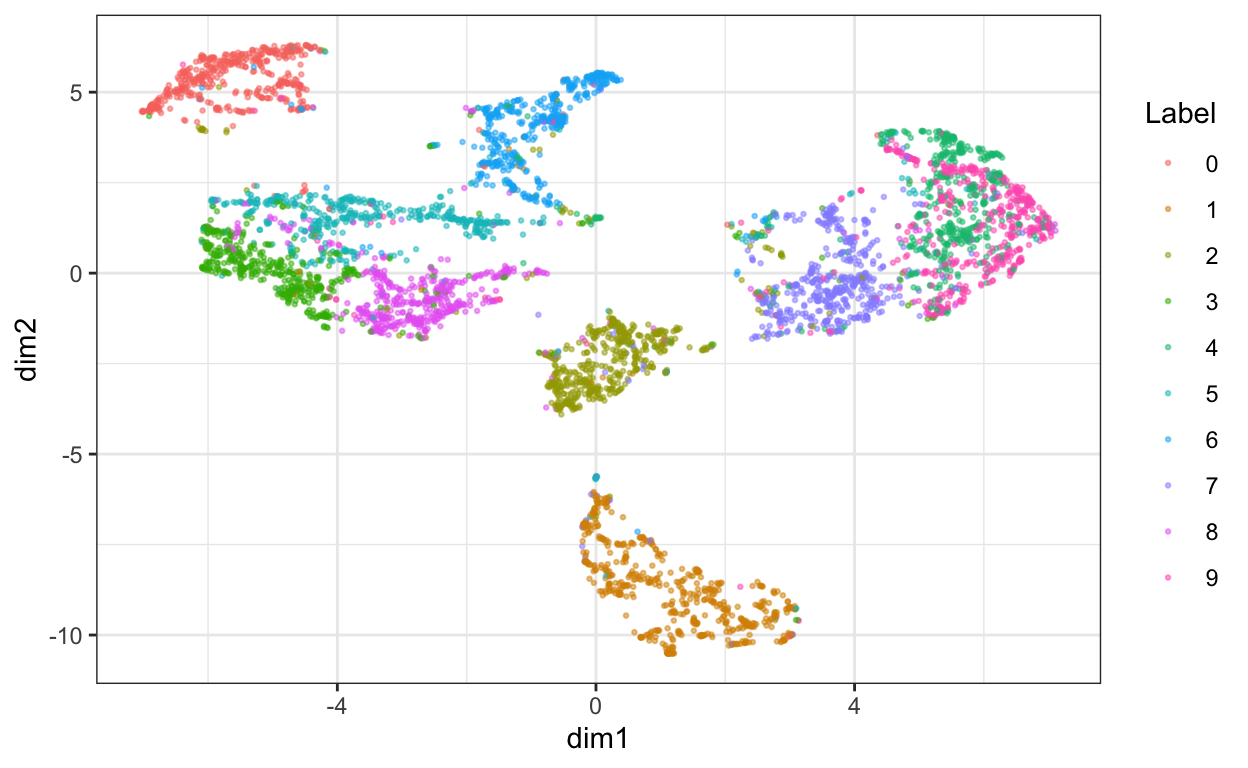
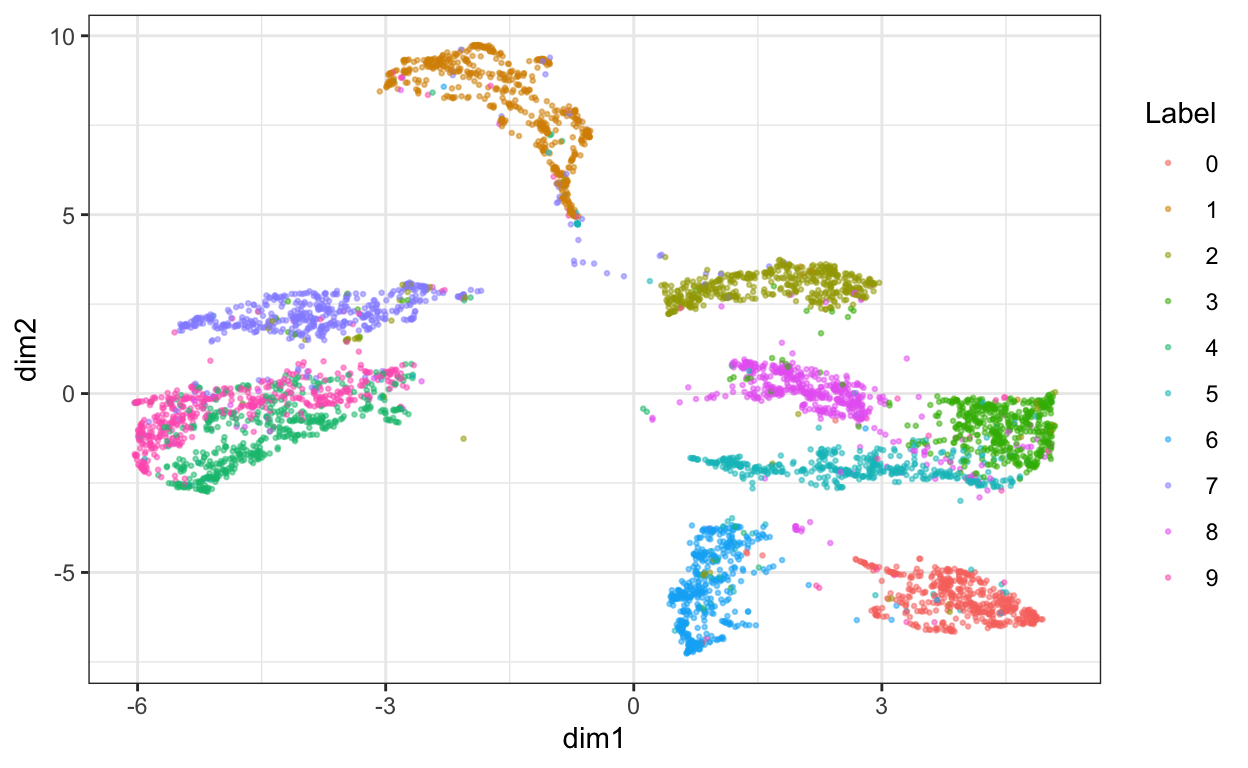
Updating post

diff --git a/_posts/2024-12-23-biologists-stop-including-umap-plots-in-your-papers/biologists-stop-including-umap-plots-in-your-papers.html b/_posts/2024-12-23-biologists-stop-including-umap-plots-in-your-papers/biologists-stop-including-umap-plots-in-your-papers.html
@@ -118,7 +118,7 @@ code span.wa { color: #5e5e5e; font-style: italic; } /* Warning */
   <!--/radix_placeholder_rmarkdown_metadata-->
   
   <script type="text/json" id="radix-resource-manifest">
-  {"type":"character","attributes":{},"value":["biologists-stop-including-umap-plots-in-your-papers_files/figure-html5/genotype-pca-1.png","biologists-stop-including-umap-plots-in-your-papers_files/figure-html5/genotype-pca-2-1.png","biologists-stop-including-umap-plots-in-your-papers_files/figure-html5/genotype-umap-1.png","biologists-stop-including-umap-plots-in-your-papers_files/figure-html5/iris-example-1.png","biologists-stop-including-umap-plots-in-your-papers_files/figure-html5/mnist-example-1.png","biologists-stop-including-umap-plots-in-your-papers_files/figure-html5/mvnorm-example-1.png","biologists-stop-including-umap-plots-in-your-papers_files/figure-html5/pc1-boxplot-1.png"]}
+  {"type":"character","attributes":{},"value":["biologists-stop-including-umap-plots-in-your-papers_files/anchor-4.2.2/anchor.min.js","biologists-stop-including-umap-plots-in-your-papers_files/bowser-1.9.3/bowser.min.js","biologists-stop-including-umap-plots-in-your-papers_files/distill-2.2.21/template.v2.js","biologists-stop-including-umap-plots-in-your-papers_files/figure-html5/genotype-pca-1.png","biologists-stop-including-umap-plots-in-your-papers_files/figure-html5/genotype-pca-2-1.png","biologists-stop-including-umap-plots-in-your-papers_files/figure-html5/genotype-umap-1.png","biologists-stop-including-umap-plots-in-your-papers_files/figure-html5/iris-example-1.png","biologists-stop-including-umap-plots-in-your-papers_files/figure-html5/mnist-example-1.png","biologists-stop-including-umap-plots-in-your-papers_files/figure-html5/mvnorm-example-1.png","biologists-stop-including-umap-plots-in-your-papers_files/figure-html5/mvnorm-example-2-1.png","biologists-stop-including-umap-plots-in-your-papers_files/figure-html5/pc1-boxplot-1.png","biologists-stop-including-umap-plots-in-your-papers_files/header-attrs-2.28/header-attrs.js","biologists-stop-including-umap-plots-in-your-papers_files/jquery-3.6.0/jquery-3.6.0.js","biologists-stop-including-umap-plots-in-your-papers_files/jquery-3.6.0/jquery-3.6.0.min.js","biologists-stop-including-umap-plots-in-your-papers_files/jquery-3.6.0/jquery-3.6.0.min.map","biologists-stop-including-umap-plots-in-your-papers_files/popper-2.6.0/popper.min.js","biologists-stop-including-umap-plots-in-your-papers_files/tippy-6.2.7/tippy-bundle.umd.min.js","biologists-stop-including-umap-plots-in-your-papers_files/tippy-6.2.7/tippy-light-border.css","biologists-stop-including-umap-plots-in-your-papers_files/tippy-6.2.7/tippy.css","biologists-stop-including-umap-plots-in-your-papers_files/tippy-6.2.7/tippy.umd.min.js","biologists-stop-including-umap-plots-in-your-papers_files/webcomponents-2.0.0/webcomponents.js"]}
   </script>
   <!--radix_placeholder_navigation_in_header-->
   <!--/radix_placeholder_navigation_in_header-->
@@ -1545,6 +1545,7 @@ code span.wa { color: #5e5e5e; font-style: italic; } /* Warning */
 </div>
 
 <div class="d-article">
+<p><strong>Update on February 13, 2025</strong>: We have updated the post after re-running the code with latest versions of all packages and by making sure that <code>umap</code> is aware that the input is a distance. We also changed the seed to today’s day.</p>
 <div class="layout-chunk" data-layout="l-body">
 
 </div>
@@ -1554,7 +1555,7 @@ code span.wa { color: #5e5e5e; font-style: italic; } /* Warning */
 <span><span class='kw'><a href='https://rdrr.io/r/base/library.html'>library</a></span><span class='op'>(</span><span class='va'><a href='https://ggplot2.tidyverse.org'>ggplot2</a></span><span class='op'>)</span></span>
 <span><span class='kw'><a href='https://rdrr.io/r/base/library.html'>library</a></span><span class='op'>(</span><span class='va'><a href='https://dplyr.tidyverse.org'>dplyr</a></span><span class='op'>)</span></span>
 <span><span class='kw'><a href='https://rdrr.io/r/base/library.html'>library</a></span><span class='op'>(</span><span class='va'><a href='https://github.com/tkonopka/umap'>umap</a></span><span class='op'>)</span></span>
-<span><span class='fu'><a href='https://rdrr.io/r/base/Random.html'>set.seed</a></span><span class='op'>(</span><span class='fl'>2024</span><span class='op'>-</span><span class='fl'>6</span><span class='op'>-</span><span class='fl'>21</span><span class='op'>)</span></span>
+<span><span class='fu'><a href='https://rdrr.io/r/base/Random.html'>set.seed</a></span><span class='op'>(</span><span class='fl'>2025</span><span class='op'>-</span><span class='fl'>2</span><span class='op'>-</span><span class='fl'>13</span><span class='op'>)</span></span>
 <span><span class='fu'><a href='https://rdrr.io/r/base/load.html'>load</a></span><span class='op'>(</span><span class='st'>"rda/pop_gen_sample.RData"</span><span class='op'>)</span></span></code></pre>
 </div>
 </div>
@@ -1583,7 +1584,11 @@ code span.wa { color: #5e5e5e; font-style: italic; } /* Warning */
 <span><span class='va'>x</span> <span class='op'>&lt;-</span> <span class='op'>(</span><span class='va'>x</span><span class='op'>[</span>,<span class='fu'><a href='https://rdrr.io/r/base/apply.html'>apply</a></span><span class='op'>(</span><span class='va'>x</span>, <span class='fl'>2</span>, <span class='va'>sd</span><span class='op'>)</span> <span class='op'>&gt;</span> <span class='fl'>80</span><span class='op'>]</span> <span class='op'>&gt;</span> <span class='fl'>125</span><span class='op'>)</span> <span class='op'>*</span> <span class='fl'>1</span></span>
 <span><span class='va'>y</span> <span class='op'>&lt;-</span> <span class='fu'><a href='https://rdrr.io/r/base/factor.html'>as.factor</a></span><span class='op'>(</span><span class='va'>mnist</span><span class='op'>$</span><span class='va'>test</span><span class='op'>$</span><span class='va'>labels</span><span class='op'>[</span><span class='fl'>1</span><span class='op'>:</span><span class='fl'>5000</span><span class='op'>]</span><span class='op'>)</span></span>
 <span><span class='va'>d</span> <span class='op'>&lt;-</span> <span class='fu'><a href='https://rdrr.io/r/base/matrix.html'>as.matrix</a></span><span class='op'>(</span><span class='fu'><a href='https://rdrr.io/r/stats/dist.html'>dist</a></span><span class='op'>(</span><span class='va'>x</span>, method <span class='op'>=</span> <span class='st'>"binary"</span><span class='op'>)</span><span class='op'>)</span></span>
-<span><span class='va'>u</span> <span class='op'>&lt;-</span> <span class='fu'><a href='https://rdrr.io/pkg/umap/man/umap.html'>umap</a></span><span class='op'>(</span><span class='va'>d</span>, n_neighbors <span class='op'>=</span> <span class='fl'>10</span>, min_dist <span class='op'>=</span> <span class='fl'>0.025</span><span class='op'>)</span></span>
+<span><span class='va'>custom.settings</span> <span class='op'>&lt;-</span> <span class='va'>umap.defaults</span></span>
+<span><span class='va'>custom.settings</span><span class='op'>$</span><span class='va'>input</span> <span class='op'>&lt;-</span> <span class='st'>"dist"</span></span>
+<span><span class='va'>custom.settings</span><span class='op'>$</span><span class='va'>n_neighbors</span> <span class='op'>&lt;-</span> <span class='fl'>10</span></span>
+<span><span class='va'>custom.settings</span><span class='op'>$</span><span class='va'>min_dist</span> <span class='op'>&lt;-</span> <span class='fl'>0.025</span></span>
+<span><span class='va'>u</span> <span class='op'>&lt;-</span> <span class='fu'><a href='https://rdrr.io/pkg/umap/man/umap.html'>umap</a></span><span class='op'>(</span><span class='va'>d</span>, config <span class='op'>=</span> <span class='va'>custom.settings</span><span class='op'>)</span></span>
 <span><span class='fu'><a href='https://rdrr.io/r/base/data.frame.html'>data.frame</a></span><span class='op'>(</span>dim1 <span class='op'>=</span> <span class='va'>u</span><span class='op'>$</span><span class='va'>layout</span><span class='op'>[</span>,<span class='fl'>1</span><span class='op'>]</span>, dim2 <span class='op'>=</span> <span class='va'>u</span><span class='op'>$</span><span class='va'>layout</span><span class='op'>[</span>,<span class='fl'>2</span><span class='op'>]</span>, Label <span class='op'>=</span> <span class='va'>y</span><span class='op'>)</span> <span class='op'>|&gt;</span></span>
 <span>  <span class='fu'><a href='https://ggplot2.tidyverse.org/reference/ggplot.html'>ggplot</a></span><span class='op'>(</span><span class='fu'><a href='https://ggplot2.tidyverse.org/reference/aes.html'>aes</a></span><span class='op'>(</span><span class='va'>dim1</span>, <span class='va'>dim2</span>, color <span class='op'>=</span> <span class='va'>Label</span><span class='op'>)</span><span class='op'>)</span> <span class='op'>+</span></span>
 <span>  <span class='fu'><a href='https://ggplot2.tidyverse.org/reference/geom_point.html'>geom_point</a></span><span class='op'>(</span>alpha <span class='op'>=</span> <span class='fl'>0.5</span>, cex <span class='op'>=</span> <span class='fl'>0.5</span><span class='op'>)</span> </span></code></pre>
@@ -1599,8 +1604,9 @@ code span.wa { color: #5e5e5e; font-style: italic; } /* Warning */
 <div class="sourceCode">
 <pre class="sourceCode r"><code class="sourceCode r"><span><span class='va'>Sigma</span> <span class='op'>&lt;-</span> <span class='fu'><a href='https://rdrr.io/r/base/matrix.html'>matrix</a></span><span class='op'>(</span><span class='fl'>.8</span>, <span class='fl'>3</span>, <span class='fl'>3</span><span class='op'>)</span>; <span class='fu'><a href='https://rdrr.io/r/base/diag.html'>diag</a></span><span class='op'>(</span><span class='va'>Sigma</span><span class='op'>)</span> <span class='op'>&lt;-</span> <span class='fl'>1</span></span>
 <span><span class='va'>x</span> <span class='op'>&lt;-</span> <span class='fu'>MASS</span><span class='fu'>::</span><span class='fu'><a href='https://rdrr.io/pkg/MASS/man/mvrnorm.html'>mvrnorm</a></span><span class='op'>(</span><span class='fl'>100</span>, <span class='fu'><a href='https://rdrr.io/r/base/rep.html'>rep</a></span><span class='op'>(</span><span class='fl'>0</span>,<span class='fl'>3</span><span class='op'>)</span>, <span class='va'>Sigma</span><span class='op'>)</span></span>
-<span><span class='co'>#x &lt;- matrix(rnorm(100), ncol = 1)</span></span>
-<span><span class='va'>u</span> <span class='op'>&lt;-</span> <span class='fu'><a href='https://rdrr.io/pkg/umap/man/umap.html'>umap</a></span><span class='op'>(</span><span class='fu'><a href='https://rdrr.io/r/base/matrix.html'>as.matrix</a></span><span class='op'>(</span><span class='fu'><a href='https://rdrr.io/r/stats/dist.html'>dist</a></span><span class='op'>(</span><span class='va'>x</span><span class='op'>)</span><span class='op'>)</span><span class='op'>)</span></span>
+<span><span class='va'>custom.settings</span> <span class='op'>&lt;-</span> <span class='va'>umap.defaults</span></span>
+<span><span class='va'>custom.settings</span><span class='op'>$</span><span class='va'>input</span> <span class='op'>&lt;-</span> <span class='st'>"dist"</span></span>
+<span><span class='va'>u</span> <span class='op'>&lt;-</span> <span class='fu'><a href='https://rdrr.io/pkg/umap/man/umap.html'>umap</a></span><span class='op'>(</span><span class='fu'><a href='https://rdrr.io/r/base/matrix.html'>as.matrix</a></span><span class='op'>(</span><span class='fu'><a href='https://rdrr.io/r/stats/dist.html'>dist</a></span><span class='op'>(</span><span class='va'>x</span><span class='op'>)</span><span class='op'>)</span>, config <span class='op'>=</span> <span class='va'>custom.settings</span><span class='op'>)</span></span>
 <span><span class='va'>ranks</span> <span class='op'>&lt;-</span> <span class='fu'><a href='https://rdrr.io/r/base/rank.html'>rank</a></span><span class='op'>(</span><span class='fu'><a href='https://rdrr.io/pkg/Matrix/man/colSums-methods.html'>rowMeans</a></span><span class='op'>(</span><span class='va'>x</span><span class='op'>)</span><span class='op'>)</span></span>
 <span><span class='va'>colors</span> <span class='op'>&lt;-</span> <span class='fu'><a href='https://rdrr.io/r/grDevices/colorRamp.html'>colorRampPalette</a></span><span class='op'>(</span><span class='fu'><a href='https://rdrr.io/r/base/c.html'>c</a></span><span class='op'>(</span><span class='st'>"blue"</span>, <span class='st'>"red"</span><span class='op'>)</span><span class='op'>)</span><span class='op'>(</span><span class='fu'><a href='https://rdrr.io/r/base/nrow.html'>nrow</a></span><span class='op'>(</span><span class='va'>x</span><span class='op'>)</span><span class='op'>)</span></span>
 <span><span class='va'>colormap</span> <span class='op'>&lt;-</span> <span class='va'>colors</span><span class='op'>[</span><span class='va'>ranks</span><span class='op'>]</span></span>
@@ -1610,6 +1616,19 @@ code span.wa { color: #5e5e5e; font-style: italic; } /* Warning */
 <p><img src="biologists-stop-including-umap-plots-in-your-papers_files/figure-html5/mvnorm-example-1.png" width="624" /></p>
 </div>
 <p>Despite the data being drawn from a single multivariate normal distribution, UMAP artificially separates the data. This outcome isn’t problematic provided one understands what UMAP is doing. But how many readers of Biology journals have this level of understanding of this complex technique?</p>
+<p><strong>Update</strong>: Also note that you get different UMAP plots every time we rerun the simulations:</p>
+<div class="layout-chunk" data-layout="l-body">
+<div class="sourceCode">
+<pre class="sourceCode r"><code class="sourceCode r"><span><span class='va'>x</span> <span class='op'>&lt;-</span> <span class='fu'>MASS</span><span class='fu'>::</span><span class='fu'><a href='https://rdrr.io/pkg/MASS/man/mvrnorm.html'>mvrnorm</a></span><span class='op'>(</span><span class='fl'>100</span>, <span class='fu'><a href='https://rdrr.io/r/base/rep.html'>rep</a></span><span class='op'>(</span><span class='fl'>0</span>,<span class='fl'>3</span><span class='op'>)</span>, <span class='va'>Sigma</span><span class='op'>)</span></span>
+<span><span class='va'>u</span> <span class='op'>&lt;-</span> <span class='fu'><a href='https://rdrr.io/pkg/umap/man/umap.html'>umap</a></span><span class='op'>(</span><span class='fu'><a href='https://rdrr.io/r/base/matrix.html'>as.matrix</a></span><span class='op'>(</span><span class='fu'><a href='https://rdrr.io/r/stats/dist.html'>dist</a></span><span class='op'>(</span><span class='va'>x</span><span class='op'>)</span><span class='op'>)</span>, config <span class='op'>=</span> <span class='va'>custom.settings</span><span class='op'>)</span></span>
+<span><span class='va'>ranks</span> <span class='op'>&lt;-</span> <span class='fu'><a href='https://rdrr.io/r/base/rank.html'>rank</a></span><span class='op'>(</span><span class='fu'><a href='https://rdrr.io/pkg/Matrix/man/colSums-methods.html'>rowMeans</a></span><span class='op'>(</span><span class='va'>x</span><span class='op'>)</span><span class='op'>)</span></span>
+<span><span class='va'>colors</span> <span class='op'>&lt;-</span> <span class='fu'><a href='https://rdrr.io/r/grDevices/colorRamp.html'>colorRampPalette</a></span><span class='op'>(</span><span class='fu'><a href='https://rdrr.io/r/base/c.html'>c</a></span><span class='op'>(</span><span class='st'>"blue"</span>, <span class='st'>"red"</span><span class='op'>)</span><span class='op'>)</span><span class='op'>(</span><span class='fu'><a href='https://rdrr.io/r/base/nrow.html'>nrow</a></span><span class='op'>(</span><span class='va'>x</span><span class='op'>)</span><span class='op'>)</span></span>
+<span><span class='va'>colormap</span> <span class='op'>&lt;-</span> <span class='va'>colors</span><span class='op'>[</span><span class='va'>ranks</span><span class='op'>]</span></span>
+<span><span class='fu'><a href='https://rdrr.io/r/graphics/plot.default.html'>plot</a></span><span class='op'>(</span><span class='va'>u</span><span class='op'>$</span><span class='va'>layout</span><span class='op'>[</span>,<span class='fl'>1</span><span class='op'>]</span>, <span class='va'>u</span><span class='op'>$</span><span class='va'>layout</span><span class='op'>[</span>,<span class='fl'>2</span><span class='op'>]</span>, type <span class='op'>=</span> <span class='st'>"n"</span>, xlab <span class='op'>=</span> <span class='st'>"dim1"</span>, ylab <span class='op'>=</span> <span class='st'>"dim2"</span><span class='op'>)</span></span>
+<span><span class='fu'><a href='https://rdrr.io/r/graphics/text.html'>text</a></span><span class='op'>(</span><span class='va'>u</span><span class='op'>$</span><span class='va'>layout</span><span class='op'>[</span>,<span class='fl'>1</span><span class='op'>]</span>, <span class='va'>u</span><span class='op'>$</span><span class='va'>layout</span><span class='op'>[</span>,<span class='fl'>2</span><span class='op'>]</span>, labels <span class='op'>=</span> <span class='va'>ranks</span>, col <span class='op'>=</span> <span class='va'>colormap</span>, cex <span class='op'>=</span> <span class='fl'>0.5</span><span class='op'>)</span></span></code></pre>
+</div>
+<p><img src="biologists-stop-including-umap-plots-in-your-papers_files/figure-html5/mvnorm-example-2-1.png" width="624" /></p>
+</div>
 <p>By failing to account for the nuances of UMAP, we risk misinterpreting the visualizations it generates. This underscores the importance of asking what exactly are we showing with the plot. and what biological insights are we to take from them.</p>
 <h2 id="real-world-consequences">Real-World Consequences</h2>
 <p>The overuse of UMAP has extended beyond scRNA-Seq and is now prevalent in other areas of biology. A particularly concerning example appeared in a high-profile publication from the <em>All of Us</em> project. The paper featured a UMAP plot of genotype data from U.S. individuals, displaying distinct clusters that appeared to align with racial and ethnic groups.</p>
@@ -1638,7 +1657,7 @@ because the belief that distances and shapes in a two-dimensional UMAP plot dire
 <span><span class='va'>y</span> <span class='op'>&lt;-</span> <span class='va'>y</span><span class='op'>[</span><span class='va'>ind</span>,<span class='op'>]</span></span>
 <span><span class='va'>pop</span> <span class='op'>&lt;-</span> <span class='fu'><a href='https://rdrr.io/r/base/factor.html'>factor</a></span><span class='op'>(</span><span class='va'>pop_sample</span><span class='op'>[</span><span class='va'>ind</span><span class='op'>]</span>, levels <span class='op'>=</span> <span class='fu'><a href='https://rdrr.io/r/base/c.html'>c</a></span><span class='op'>(</span><span class='st'>"GBR"</span>, <span class='st'>"IBS"</span>, <span class='st'>"YRI"</span>, <span class='st'>"ASW"</span>, <span class='st'>"PUR"</span><span class='op'>)</span><span class='op'>)</span></span>
 <span><span class='va'>d</span> <span class='op'>&lt;-</span> <span class='fu'><a href='https://rdrr.io/r/base/matrix.html'>as.matrix</a></span><span class='op'>(</span><span class='fu'><a href='https://rdrr.io/r/stats/dist.html'>dist</a></span><span class='op'>(</span><span class='va'>y</span><span class='op'>)</span><span class='op'>)</span></span>
-<span><span class='va'>u</span> <span class='op'>&lt;-</span> <span class='fu'><a href='https://rdrr.io/pkg/umap/man/umap.html'>umap</a></span><span class='op'>(</span><span class='va'>d</span><span class='op'>)</span><span class='co'>#, n_neighbors = 30, min_dist = 0.1)</span></span>
+<span><span class='va'>u</span> <span class='op'>&lt;-</span> <span class='fu'><a href='https://rdrr.io/pkg/umap/man/umap.html'>umap</a></span><span class='op'>(</span><span class='va'>d</span>, config <span class='op'>=</span> <span class='va'>custom.settings</span><span class='op'>)</span></span>
 <span><span class='fu'><a href='https://rdrr.io/r/base/data.frame.html'>data.frame</a></span><span class='op'>(</span>dim1 <span class='op'>=</span> <span class='va'>u</span><span class='op'>$</span><span class='va'>layout</span><span class='op'>[</span>,<span class='fl'>1</span><span class='op'>]</span>, dim2 <span class='op'>=</span> <span class='va'>u</span><span class='op'>$</span><span class='va'>layout</span><span class='op'>[</span>,<span class='fl'>2</span><span class='op'>]</span>, </span>
 <span>           Population <span class='op'>=</span> <span class='va'>pop</span><span class='op'>)</span> <span class='op'>|&gt;</span></span>
 <span>  <span class='fu'><a href='https://ggplot2.tidyverse.org/reference/ggplot.html'>ggplot</a></span><span class='op'>(</span><span class='fu'><a href='https://ggplot2.tidyverse.org/reference/aes.html'>aes</a></span><span class='op'>(</span><span class='va'>dim1</span>, <span class='va'>dim2</span>, color <span class='op'>=</span> <span class='va'>pop</span><span class='op'>)</span><span class='op'>)</span> <span class='op'>+</span> </span>
@@ -1647,7 +1666,7 @@ because the belief that distances and shapes in a two-dimensional UMAP plot dire
 </div>
 <p><img src="biologists-stop-including-umap-plots-in-your-papers_files/figure-html5/genotype-umap-1.png" width="624" /></p>
 </div>
-<p>The resulting plot shows two distinct clusters for the US populations. A simplistic interpretation based on identity group labels used in the US might call these the <em>Hispanic</em> (<code>dim2</code> &gt; 0) and <em>Black</em> (<code>dim2</code> &lt; 0) clusters. However, closer inspection reveals that some Puerto Ricans are in the Black cluster, and some African American individuals are in the Hispanic cluster.</p>
+<p>The resulting plot shows two distinct clusters for the US populations. A simplistic interpretation based on identity group labels used in the US might call these the <em>Hispanic</em> (<code>dim2</code> &lt; 0) and <em>Black</em> (<code>dim2</code> &gt; 0) clusters. However, closer inspection reveals that some Puerto Ricans are in the Black cluster, and some African American individuals are in the Hispanic cluster.</p>
 <p>Is this evidence of mis-classifications or inaccurate self-identification? Not at all. An alternative explanation is that UMAP has artificially exaggerated the separation between these groups.</p>
 <p>To highlight the limitations of UMAP above, we apply PCA:</p>
 <div class="layout-chunk" data-layout="l-body">
@@ -1699,6 +1718,7 @@ The plot shows these individuals positioned between European and African populat
 <h2 id="acknolwedgements">Acknolwedgements</h2>
 <p>The genotype data analysis was conducted to develop questions for a summer research project involving Shriya Shivakumar and Mohammed Khodor Firas Al-Tal, under the guidance and supervision of Phillip Nicol. Data wrangling was performed by Madhav Chadha.</p>
 <p>A detailed explanation of UMAP is not provided here, as comprehensive resources are readily available online. The <a href="https://en.wikipedia.org/wiki/Nonlinear_dimensionality_reduction#Uniform_manifold_approximation_and_projection">Wikipedia page</a> is pretty good. Additionally, I suspect there are other insightful critiques of the use of UMAP in Biology, but I didn’t have the time to research this for this post.</p>
+<p>Thanks to Nikolay Oskolkov for comments that led to improvements of the original post.</p>
 <div class="sourceCode" id="cb1"><pre class="sourceCode r distill-force-highlighting-css"><code class="sourceCode r"></code></pre></div>
 <!--radix_placeholder_article_footer-->
 <!--/radix_placeholder_article_footer-->

diff --git a/docs/posts/2024-12-23-biologists-stop-including-umap-plots-in-your-papers/index.html b/docs/posts/2024-12-23-biologists-stop-including-umap-plots-in-your-papers/index.html
@@ -119,7 +119,7 @@ code span.wa { color: #5e5e5e; font-style: italic; } /* Warning */
 <!--/radix_placeholder_rmarkdown_metadata-->
   
   <script type="text/json" id="radix-resource-manifest">
-  {"type":"character","attributes":{},"value":["biologists-stop-including-umap-plots-in-your-papers_files/figure-html5/genotype-pca-1.png","biologists-stop-including-umap-plots-in-your-papers_files/figure-html5/genotype-pca-2-1.png","biologists-stop-including-umap-plots-in-your-papers_files/figure-html5/genotype-umap-1.png","biologists-stop-including-umap-plots-in-your-papers_files/figure-html5/iris-example-1.png","biologists-stop-including-umap-plots-in-your-papers_files/figure-html5/mnist-example-1.png","biologists-stop-including-umap-plots-in-your-papers_files/figure-html5/mvnorm-example-1.png","biologists-stop-including-umap-plots-in-your-papers_files/figure-html5/pc1-boxplot-1.png"]}
+  {"type":"character","attributes":{},"value":["biologists-stop-including-umap-plots-in-your-papers_files/anchor-4.2.2/anchor.min.js","biologists-stop-including-umap-plots-in-your-papers_files/bowser-1.9.3/bowser.min.js","biologists-stop-including-umap-plots-in-your-papers_files/distill-2.2.21/template.v2.js","biologists-stop-including-umap-plots-in-your-papers_files/figure-html5/genotype-pca-1.png","biologists-stop-including-umap-plots-in-your-papers_files/figure-html5/genotype-pca-2-1.png","biologists-stop-including-umap-plots-in-your-papers_files/figure-html5/genotype-umap-1.png","biologists-stop-including-umap-plots-in-your-papers_files/figure-html5/iris-example-1.png","biologists-stop-including-umap-plots-in-your-papers_files/figure-html5/mnist-example-1.png","biologists-stop-including-umap-plots-in-your-papers_files/figure-html5/mvnorm-example-1.png","biologists-stop-including-umap-plots-in-your-papers_files/figure-html5/mvnorm-example-2-1.png","biologists-stop-including-umap-plots-in-your-papers_files/figure-html5/pc1-boxplot-1.png","biologists-stop-including-umap-plots-in-your-papers_files/header-attrs-2.28/header-attrs.js","biologists-stop-including-umap-plots-in-your-papers_files/jquery-3.6.0/jquery-3.6.0.js","biologists-stop-including-umap-plots-in-your-papers_files/jquery-3.6.0/jquery-3.6.0.min.js","biologists-stop-including-umap-plots-in-your-papers_files/jquery-3.6.0/jquery-3.6.0.min.map","biologists-stop-including-umap-plots-in-your-papers_files/popper-2.6.0/popper.min.js","biologists-stop-including-umap-plots-in-your-papers_files/tippy-6.2.7/tippy-bundle.umd.min.js","biologists-stop-including-umap-plots-in-your-papers_files/tippy-6.2.7/tippy-light-border.css","biologists-stop-including-umap-plots-in-your-papers_files/tippy-6.2.7/tippy.css","biologists-stop-including-umap-plots-in-your-papers_files/tippy-6.2.7/tippy.umd.min.js","biologists-stop-including-umap-plots-in-your-papers_files/webcomponents-2.0.0/webcomponents.js"]}
   </script>
   <!--radix_placeholder_navigation_in_header-->
 <meta name="distill:offset" content="../.."/>
@@ -2169,6 +2169,7 @@ document.addEventListener('DOMContentLoaded', function() {
 </div>
 
 <div class="d-article">
+<p><strong>Update on February 13, 2025</strong>: We have updated the post after re-running the code with latest versions of all packages and by making sure that <code>umap</code> is aware that the input is a distance. We also changed the seed to today’s day.</p>
 <div class="layout-chunk" data-layout="l-body">
 
 </div>
@@ -2178,7 +2179,7 @@ document.addEventListener('DOMContentLoaded', function() {
 <span><span class='kw'><a href='https://rdrr.io/r/base/library.html'>library</a></span><span class='op'>(</span><span class='va'><a href='https://ggplot2.tidyverse.org'>ggplot2</a></span><span class='op'>)</span></span>
 <span><span class='kw'><a href='https://rdrr.io/r/base/library.html'>library</a></span><span class='op'>(</span><span class='va'><a href='https://dplyr.tidyverse.org'>dplyr</a></span><span class='op'>)</span></span>
 <span><span class='kw'><a href='https://rdrr.io/r/base/library.html'>library</a></span><span class='op'>(</span><span class='va'><a href='https://github.com/tkonopka/umap'>umap</a></span><span class='op'>)</span></span>
-<span><span class='fu'><a href='https://rdrr.io/r/base/Random.html'>set.seed</a></span><span class='op'>(</span><span class='fl'>2024</span><span class='op'>-</span><span class='fl'>6</span><span class='op'>-</span><span class='fl'>21</span><span class='op'>)</span></span>
+<span><span class='fu'><a href='https://rdrr.io/r/base/Random.html'>set.seed</a></span><span class='op'>(</span><span class='fl'>2025</span><span class='op'>-</span><span class='fl'>2</span><span class='op'>-</span><span class='fl'>13</span><span class='op'>)</span></span>
 <span><span class='fu'><a href='https://rdrr.io/r/base/load.html'>load</a></span><span class='op'>(</span><span class='st'>"rda/pop_gen_sample.RData"</span><span class='op'>)</span></span></code></pre>
 </div>
 </div>
@@ -2207,7 +2208,11 @@ document.addEventListener('DOMContentLoaded', function() {
 <span><span class='va'>x</span> <span class='op'>&lt;-</span> <span class='op'>(</span><span class='va'>x</span><span class='op'>[</span>,<span class='fu'><a href='https://rdrr.io/r/base/apply.html'>apply</a></span><span class='op'>(</span><span class='va'>x</span>, <span class='fl'>2</span>, <span class='va'>sd</span><span class='op'>)</span> <span class='op'>&gt;</span> <span class='fl'>80</span><span class='op'>]</span> <span class='op'>&gt;</span> <span class='fl'>125</span><span class='op'>)</span> <span class='op'>*</span> <span class='fl'>1</span></span>
 <span><span class='va'>y</span> <span class='op'>&lt;-</span> <span class='fu'><a href='https://rdrr.io/r/base/factor.html'>as.factor</a></span><span class='op'>(</span><span class='va'>mnist</span><span class='op'>$</span><span class='va'>test</span><span class='op'>$</span><span class='va'>labels</span><span class='op'>[</span><span class='fl'>1</span><span class='op'>:</span><span class='fl'>5000</span><span class='op'>]</span><span class='op'>)</span></span>
 <span><span class='va'>d</span> <span class='op'>&lt;-</span> <span class='fu'><a href='https://rdrr.io/r/base/matrix.html'>as.matrix</a></span><span class='op'>(</span><span class='fu'><a href='https://rdrr.io/r/stats/dist.html'>dist</a></span><span class='op'>(</span><span class='va'>x</span>, method <span class='op'>=</span> <span class='st'>"binary"</span><span class='op'>)</span><span class='op'>)</span></span>
-<span><span class='va'>u</span> <span class='op'>&lt;-</span> <span class='fu'><a href='https://rdrr.io/pkg/umap/man/umap.html'>umap</a></span><span class='op'>(</span><span class='va'>d</span>, n_neighbors <span class='op'>=</span> <span class='fl'>10</span>, min_dist <span class='op'>=</span> <span class='fl'>0.025</span><span class='op'>)</span></span>
+<span><span class='va'>custom.settings</span> <span class='op'>&lt;-</span> <span class='va'>umap.defaults</span></span>
+<span><span class='va'>custom.settings</span><span class='op'>$</span><span class='va'>input</span> <span class='op'>&lt;-</span> <span class='st'>"dist"</span></span>
+<span><span class='va'>custom.settings</span><span class='op'>$</span><span class='va'>n_neighbors</span> <span class='op'>&lt;-</span> <span class='fl'>10</span></span>
+<span><span class='va'>custom.settings</span><span class='op'>$</span><span class='va'>min_dist</span> <span class='op'>&lt;-</span> <span class='fl'>0.025</span></span>
+<span><span class='va'>u</span> <span class='op'>&lt;-</span> <span class='fu'><a href='https://rdrr.io/pkg/umap/man/umap.html'>umap</a></span><span class='op'>(</span><span class='va'>d</span>, config <span class='op'>=</span> <span class='va'>custom.settings</span><span class='op'>)</span></span>
 <span><span class='fu'><a href='https://rdrr.io/r/base/data.frame.html'>data.frame</a></span><span class='op'>(</span>dim1 <span class='op'>=</span> <span class='va'>u</span><span class='op'>$</span><span class='va'>layout</span><span class='op'>[</span>,<span class='fl'>1</span><span class='op'>]</span>, dim2 <span class='op'>=</span> <span class='va'>u</span><span class='op'>$</span><span class='va'>layout</span><span class='op'>[</span>,<span class='fl'>2</span><span class='op'>]</span>, Label <span class='op'>=</span> <span class='va'>y</span><span class='op'>)</span> <span class='op'>|&gt;</span></span>
 <span>  <span class='fu'><a href='https://ggplot2.tidyverse.org/reference/ggplot.html'>ggplot</a></span><span class='op'>(</span><span class='fu'><a href='https://ggplot2.tidyverse.org/reference/aes.html'>aes</a></span><span class='op'>(</span><span class='va'>dim1</span>, <span class='va'>dim2</span>, color <span class='op'>=</span> <span class='va'>Label</span><span class='op'>)</span><span class='op'>)</span> <span class='op'>+</span></span>
 <span>  <span class='fu'><a href='https://ggplot2.tidyverse.org/reference/geom_point.html'>geom_point</a></span><span class='op'>(</span>alpha <span class='op'>=</span> <span class='fl'>0.5</span>, cex <span class='op'>=</span> <span class='fl'>0.5</span><span class='op'>)</span> </span></code></pre>
@@ -2223,8 +2228,9 @@ document.addEventListener('DOMContentLoaded', function() {
 <div class="sourceCode">
 <pre class="sourceCode r"><code class="sourceCode r"><span><span class='va'>Sigma</span> <span class='op'>&lt;-</span> <span class='fu'><a href='https://rdrr.io/r/base/matrix.html'>matrix</a></span><span class='op'>(</span><span class='fl'>.8</span>, <span class='fl'>3</span>, <span class='fl'>3</span><span class='op'>)</span>; <span class='fu'><a href='https://rdrr.io/r/base/diag.html'>diag</a></span><span class='op'>(</span><span class='va'>Sigma</span><span class='op'>)</span> <span class='op'>&lt;-</span> <span class='fl'>1</span></span>
 <span><span class='va'>x</span> <span class='op'>&lt;-</span> <span class='fu'>MASS</span><span class='fu'>::</span><span class='fu'><a href='https://rdrr.io/pkg/MASS/man/mvrnorm.html'>mvrnorm</a></span><span class='op'>(</span><span class='fl'>100</span>, <span class='fu'><a href='https://rdrr.io/r/base/rep.html'>rep</a></span><span class='op'>(</span><span class='fl'>0</span>,<span class='fl'>3</span><span class='op'>)</span>, <span class='va'>Sigma</span><span class='op'>)</span></span>
-<span><span class='co'>#x &lt;- matrix(rnorm(100), ncol = 1)</span></span>
-<span><span class='va'>u</span> <span class='op'>&lt;-</span> <span class='fu'><a href='https://rdrr.io/pkg/umap/man/umap.html'>umap</a></span><span class='op'>(</span><span class='fu'><a href='https://rdrr.io/r/base/matrix.html'>as.matrix</a></span><span class='op'>(</span><span class='fu'><a href='https://rdrr.io/r/stats/dist.html'>dist</a></span><span class='op'>(</span><span class='va'>x</span><span class='op'>)</span><span class='op'>)</span><span class='op'>)</span></span>
+<span><span class='va'>custom.settings</span> <span class='op'>&lt;-</span> <span class='va'>umap.defaults</span></span>
+<span><span class='va'>custom.settings</span><span class='op'>$</span><span class='va'>input</span> <span class='op'>&lt;-</span> <span class='st'>"dist"</span></span>
+<span><span class='va'>u</span> <span class='op'>&lt;-</span> <span class='fu'><a href='https://rdrr.io/pkg/umap/man/umap.html'>umap</a></span><span class='op'>(</span><span class='fu'><a href='https://rdrr.io/r/base/matrix.html'>as.matrix</a></span><span class='op'>(</span><span class='fu'><a href='https://rdrr.io/r/stats/dist.html'>dist</a></span><span class='op'>(</span><span class='va'>x</span><span class='op'>)</span><span class='op'>)</span>, config <span class='op'>=</span> <span class='va'>custom.settings</span><span class='op'>)</span></span>
 <span><span class='va'>ranks</span> <span class='op'>&lt;-</span> <span class='fu'><a href='https://rdrr.io/r/base/rank.html'>rank</a></span><span class='op'>(</span><span class='fu'><a href='https://rdrr.io/pkg/Matrix/man/colSums-methods.html'>rowMeans</a></span><span class='op'>(</span><span class='va'>x</span><span class='op'>)</span><span class='op'>)</span></span>
 <span><span class='va'>colors</span> <span class='op'>&lt;-</span> <span class='fu'><a href='https://rdrr.io/r/grDevices/colorRamp.html'>colorRampPalette</a></span><span class='op'>(</span><span class='fu'><a href='https://rdrr.io/r/base/c.html'>c</a></span><span class='op'>(</span><span class='st'>"blue"</span>, <span class='st'>"red"</span><span class='op'>)</span><span class='op'>)</span><span class='op'>(</span><span class='fu'><a href='https://rdrr.io/r/base/nrow.html'>nrow</a></span><span class='op'>(</span><span class='va'>x</span><span class='op'>)</span><span class='op'>)</span></span>
 <span><span class='va'>colormap</span> <span class='op'>&lt;-</span> <span class='va'>colors</span><span class='op'>[</span><span class='va'>ranks</span><span class='op'>]</span></span>
@@ -2234,6 +2240,19 @@ document.addEventListener('DOMContentLoaded', function() {
 <p><img src="biologists-stop-including-umap-plots-in-your-papers_files/figure-html5/mvnorm-example-1.png" width="624" /></p>
 </div>
 <p>Despite the data being drawn from a single multivariate normal distribution, UMAP artificially separates the data. This outcome isn’t problematic provided one understands what UMAP is doing. But how many readers of Biology journals have this level of understanding of this complex technique?</p>
+<p><strong>Update</strong>: Also note that you get different UMAP plots every time we rerun the simulations:</p>
+<div class="layout-chunk" data-layout="l-body">
+<div class="sourceCode">
+<pre class="sourceCode r"><code class="sourceCode r"><span><span class='va'>x</span> <span class='op'>&lt;-</span> <span class='fu'>MASS</span><span class='fu'>::</span><span class='fu'><a href='https://rdrr.io/pkg/MASS/man/mvrnorm.html'>mvrnorm</a></span><span class='op'>(</span><span class='fl'>100</span>, <span class='fu'><a href='https://rdrr.io/r/base/rep.html'>rep</a></span><span class='op'>(</span><span class='fl'>0</span>,<span class='fl'>3</span><span class='op'>)</span>, <span class='va'>Sigma</span><span class='op'>)</span></span>
+<span><span class='va'>u</span> <span class='op'>&lt;-</span> <span class='fu'><a href='https://rdrr.io/pkg/umap/man/umap.html'>umap</a></span><span class='op'>(</span><span class='fu'><a href='https://rdrr.io/r/base/matrix.html'>as.matrix</a></span><span class='op'>(</span><span class='fu'><a href='https://rdrr.io/r/stats/dist.html'>dist</a></span><span class='op'>(</span><span class='va'>x</span><span class='op'>)</span><span class='op'>)</span>, config <span class='op'>=</span> <span class='va'>custom.settings</span><span class='op'>)</span></span>
+<span><span class='va'>ranks</span> <span class='op'>&lt;-</span> <span class='fu'><a href='https://rdrr.io/r/base/rank.html'>rank</a></span><span class='op'>(</span><span class='fu'><a href='https://rdrr.io/pkg/Matrix/man/colSums-methods.html'>rowMeans</a></span><span class='op'>(</span><span class='va'>x</span><span class='op'>)</span><span class='op'>)</span></span>
+<span><span class='va'>colors</span> <span class='op'>&lt;-</span> <span class='fu'><a href='https://rdrr.io/r/grDevices/colorRamp.html'>colorRampPalette</a></span><span class='op'>(</span><span class='fu'><a href='https://rdrr.io/r/base/c.html'>c</a></span><span class='op'>(</span><span class='st'>"blue"</span>, <span class='st'>"red"</span><span class='op'>)</span><span class='op'>)</span><span class='op'>(</span><span class='fu'><a href='https://rdrr.io/r/base/nrow.html'>nrow</a></span><span class='op'>(</span><span class='va'>x</span><span class='op'>)</span><span class='op'>)</span></span>
+<span><span class='va'>colormap</span> <span class='op'>&lt;-</span> <span class='va'>colors</span><span class='op'>[</span><span class='va'>ranks</span><span class='op'>]</span></span>
+<span><span class='fu'><a href='https://rdrr.io/r/graphics/plot.default.html'>plot</a></span><span class='op'>(</span><span class='va'>u</span><span class='op'>$</span><span class='va'>layout</span><span class='op'>[</span>,<span class='fl'>1</span><span class='op'>]</span>, <span class='va'>u</span><span class='op'>$</span><span class='va'>layout</span><span class='op'>[</span>,<span class='fl'>2</span><span class='op'>]</span>, type <span class='op'>=</span> <span class='st'>"n"</span>, xlab <span class='op'>=</span> <span class='st'>"dim1"</span>, ylab <span class='op'>=</span> <span class='st'>"dim2"</span><span class='op'>)</span></span>
+<span><span class='fu'><a href='https://rdrr.io/r/graphics/text.html'>text</a></span><span class='op'>(</span><span class='va'>u</span><span class='op'>$</span><span class='va'>layout</span><span class='op'>[</span>,<span class='fl'>1</span><span class='op'>]</span>, <span class='va'>u</span><span class='op'>$</span><span class='va'>layout</span><span class='op'>[</span>,<span class='fl'>2</span><span class='op'>]</span>, labels <span class='op'>=</span> <span class='va'>ranks</span>, col <span class='op'>=</span> <span class='va'>colormap</span>, cex <span class='op'>=</span> <span class='fl'>0.5</span><span class='op'>)</span></span></code></pre>
+</div>
+<p><img src="biologists-stop-including-umap-plots-in-your-papers_files/figure-html5/mvnorm-example-2-1.png" width="624" /></p>
+</div>
 <p>By failing to account for the nuances of UMAP, we risk misinterpreting the visualizations it generates. This underscores the importance of asking what exactly are we showing with the plot. and what biological insights are we to take from them.</p>
 <h2 id="real-world-consequences">Real-World Consequences</h2>
 <p>The overuse of UMAP has extended beyond scRNA-Seq and is now prevalent in other areas of biology. A particularly concerning example appeared in a high-profile publication from the <em>All of Us</em> project. The paper featured a UMAP plot of genotype data from U.S. individuals, displaying distinct clusters that appeared to align with racial and ethnic groups.</p>
@@ -2262,7 +2281,7 @@ because the belief that distances and shapes in a two-dimensional UMAP plot dire
 <span><span class='va'>y</span> <span class='op'>&lt;-</span> <span class='va'>y</span><span class='op'>[</span><span class='va'>ind</span>,<span class='op'>]</span></span>
 <span><span class='va'>pop</span> <span class='op'>&lt;-</span> <span class='fu'><a href='https://rdrr.io/r/base/factor.html'>factor</a></span><span class='op'>(</span><span class='va'>pop_sample</span><span class='op'>[</span><span class='va'>ind</span><span class='op'>]</span>, levels <span class='op'>=</span> <span class='fu'><a href='https://rdrr.io/r/base/c.html'>c</a></span><span class='op'>(</span><span class='st'>"GBR"</span>, <span class='st'>"IBS"</span>, <span class='st'>"YRI"</span>, <span class='st'>"ASW"</span>, <span class='st'>"PUR"</span><span class='op'>)</span><span class='op'>)</span></span>
 <span><span class='va'>d</span> <span class='op'>&lt;-</span> <span class='fu'><a href='https://rdrr.io/r/base/matrix.html'>as.matrix</a></span><span class='op'>(</span><span class='fu'><a href='https://rdrr.io/r/stats/dist.html'>dist</a></span><span class='op'>(</span><span class='va'>y</span><span class='op'>)</span><span class='op'>)</span></span>
-<span><span class='va'>u</span> <span class='op'>&lt;-</span> <span class='fu'><a href='https://rdrr.io/pkg/umap/man/umap.html'>umap</a></span><span class='op'>(</span><span class='va'>d</span><span class='op'>)</span><span class='co'>#, n_neighbors = 30, min_dist = 0.1)</span></span>
+<span><span class='va'>u</span> <span class='op'>&lt;-</span> <span class='fu'><a href='https://rdrr.io/pkg/umap/man/umap.html'>umap</a></span><span class='op'>(</span><span class='va'>d</span>, config <span class='op'>=</span> <span class='va'>custom.settings</span><span class='op'>)</span></span>
 <span><span class='fu'><a href='https://rdrr.io/r/base/data.frame.html'>data.frame</a></span><span class='op'>(</span>dim1 <span class='op'>=</span> <span class='va'>u</span><span class='op'>$</span><span class='va'>layout</span><span class='op'>[</span>,<span class='fl'>1</span><span class='op'>]</span>, dim2 <span class='op'>=</span> <span class='va'>u</span><span class='op'>$</span><span class='va'>layout</span><span class='op'>[</span>,<span class='fl'>2</span><span class='op'>]</span>, </span>
 <span>           Population <span class='op'>=</span> <span class='va'>pop</span><span class='op'>)</span> <span class='op'>|&gt;</span></span>
 <span>  <span class='fu'><a href='https://ggplot2.tidyverse.org/reference/ggplot.html'>ggplot</a></span><span class='op'>(</span><span class='fu'><a href='https://ggplot2.tidyverse.org/reference/aes.html'>aes</a></span><span class='op'>(</span><span class='va'>dim1</span>, <span class='va'>dim2</span>, color <span class='op'>=</span> <span class='va'>pop</span><span class='op'>)</span><span class='op'>)</span> <span class='op'>+</span> </span>
@@ -2271,7 +2290,7 @@ because the belief that distances and shapes in a two-dimensional UMAP plot dire
 </div>
 <p><img src="biologists-stop-including-umap-plots-in-your-papers_files/figure-html5/genotype-umap-1.png" width="624" /></p>
 </div>
-<p>The resulting plot shows two distinct clusters for the US populations. A simplistic interpretation based on identity group labels used in the US might call these the <em>Hispanic</em> (<code>dim2</code> &gt; 0) and <em>Black</em> (<code>dim2</code> &lt; 0) clusters. However, closer inspection reveals that some Puerto Ricans are in the Black cluster, and some African American individuals are in the Hispanic cluster.</p>
+<p>The resulting plot shows two distinct clusters for the US populations. A simplistic interpretation based on identity group labels used in the US might call these the <em>Hispanic</em> (<code>dim2</code> &lt; 0) and <em>Black</em> (<code>dim2</code> &gt; 0) clusters. However, closer inspection reveals that some Puerto Ricans are in the Black cluster, and some African American individuals are in the Hispanic cluster.</p>
 <p>Is this evidence of mis-classifications or inaccurate self-identification? Not at all. An alternative explanation is that UMAP has artificially exaggerated the separation between these groups.</p>
 <p>To highlight the limitations of UMAP above, we apply PCA:</p>
 <div class="layout-chunk" data-layout="l-body">
@@ -2323,6 +2342,7 @@ The plot shows these individuals positioned between European and African populat
 <h2 id="acknolwedgements">Acknolwedgements</h2>
 <p>The genotype data analysis was conducted to develop questions for a summer research project involving Shriya Shivakumar and Mohammed Khodor Firas Al-Tal, under the guidance and supervision of Phillip Nicol. Data wrangling was performed by Madhav Chadha.</p>
 <p>A detailed explanation of UMAP is not provided here, as comprehensive resources are readily available online. The <a href="https://en.wikipedia.org/wiki/Nonlinear_dimensionality_reduction#Uniform_manifold_approximation_and_projection">Wikipedia page</a> is pretty good. Additionally, I suspect there are other insightful critiques of the use of UMAP in Biology, but I didn’t have the time to research this for this post.</p>
+<p>Thanks to Nikolay Oskolkov for comments that led to improvements of the original post.</p>
 <div class="sourceCode" id="cb1"><pre class="sourceCode r distill-force-highlighting-css"><code class="sourceCode r"></code></pre></div>
 <!--radix_placeholder_article_footer-->
 <!--/radix_placeholder_article_footer-->
